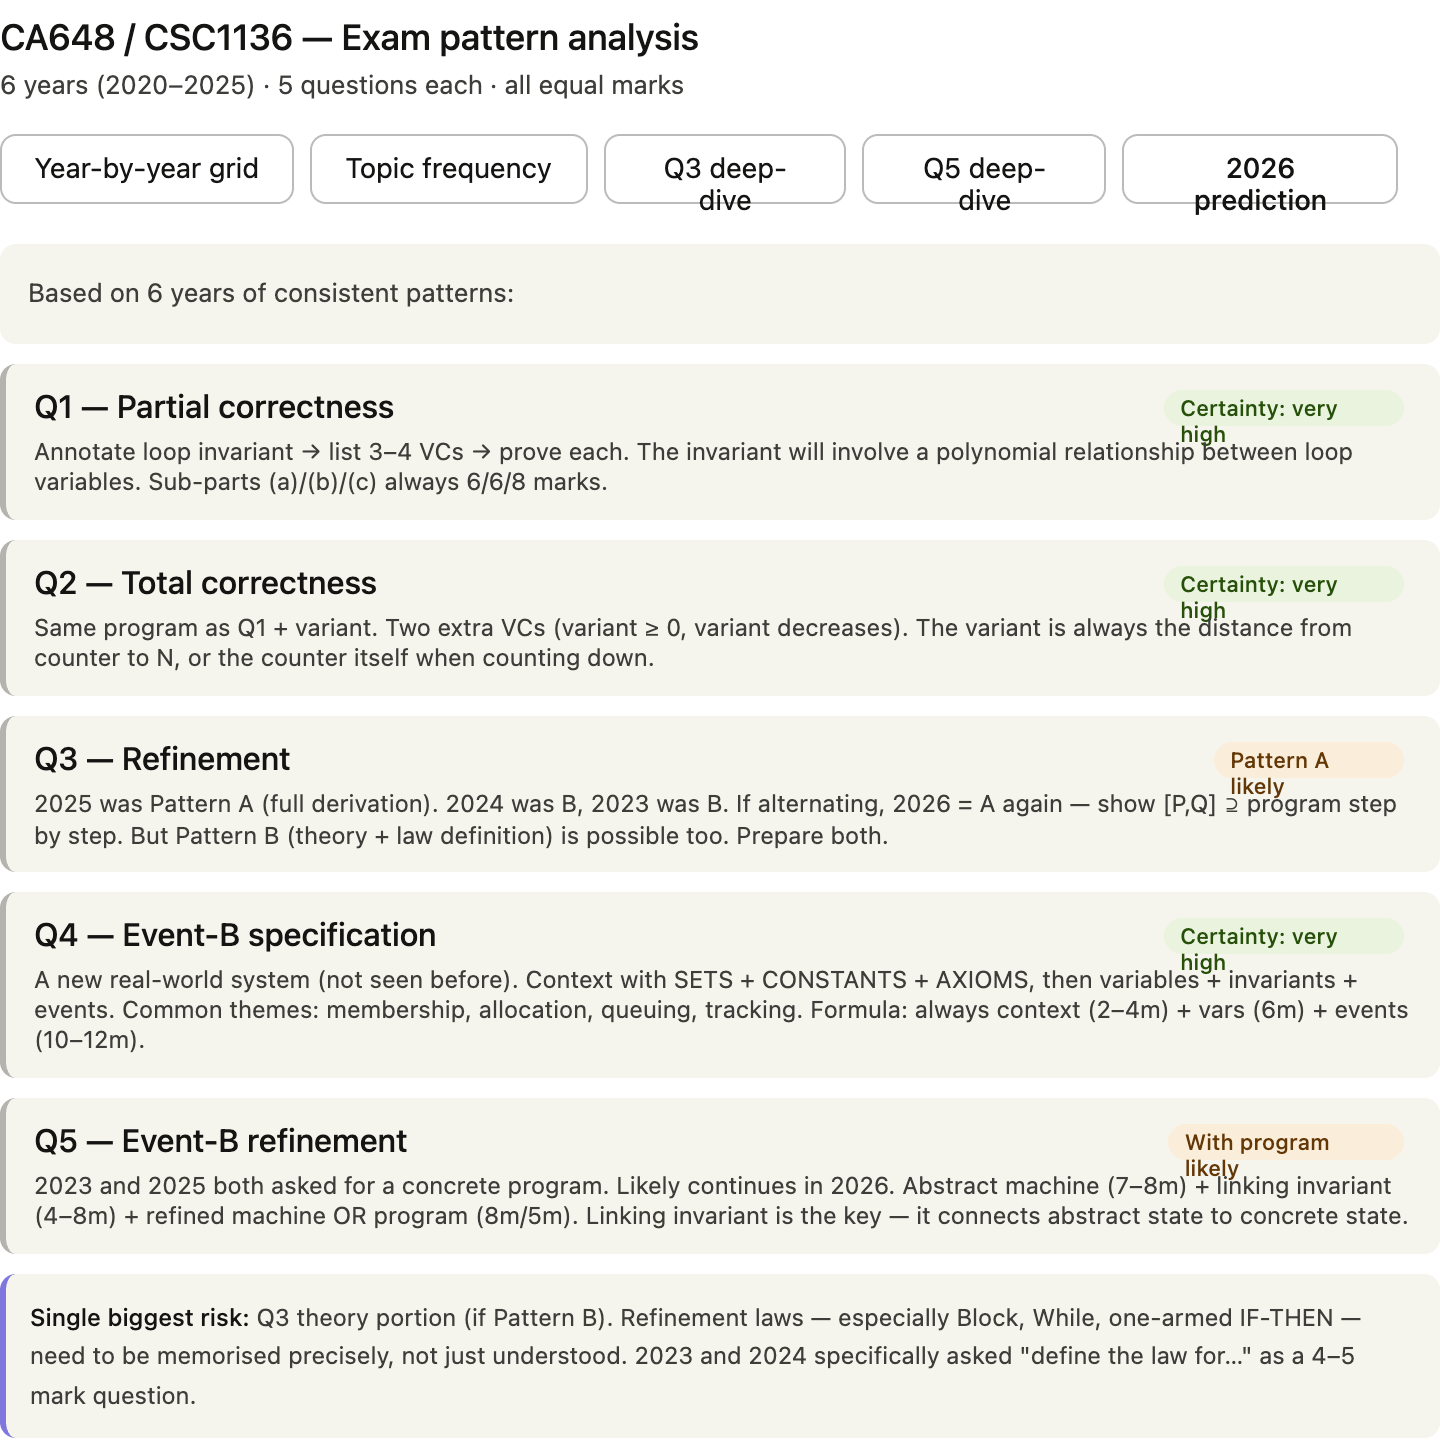
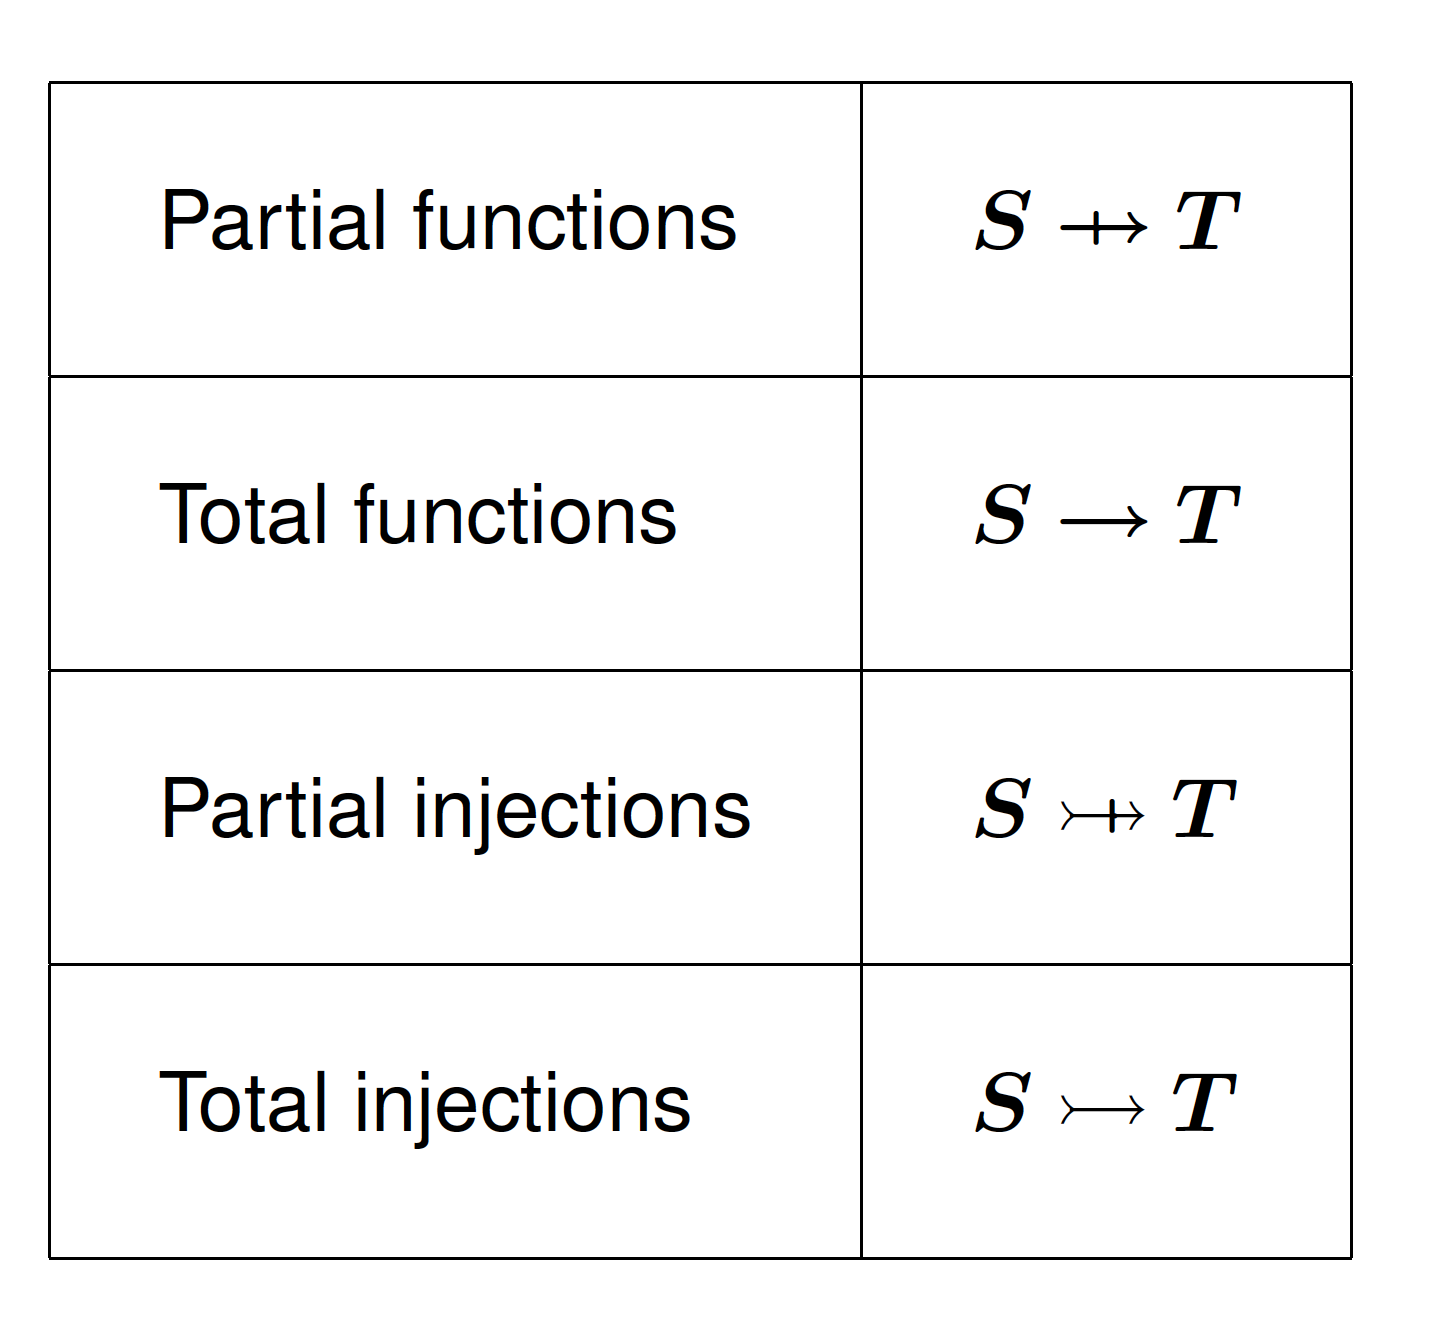
GITBOOK-6: No subject

diff --git a/formal_programming/gitbook/event-b.md b/formal_programming/gitbook/event-b.md
@@ -1,5 +1,19 @@
 # Event B
 
+<figure><img src=".gitbook/assets/image (1).png" alt=""><figcaption></figcaption></figure>
+
+
+
+
+
+<figure><img src=".gitbook/assets/image (2).png" alt=""><figcaption></figcaption></figure>
+
+
+
+
+
+<figure><img src=".gitbook/assets/image (3).png" alt=""><figcaption></figcaption></figure>
+
 Perfect — let me explain every symbol with concrete name examples like that.
 
 ***

diff --git a/formal_programming/gitbook/README.md b/formal_programming/gitbook/README.md
@@ -13,4 +13,4 @@ What do you want to tackle first? I'd suggest starting with Q1/Q2 since they're 
 
 
 
-<figure><img src=".gitbook/assets/image.png" alt=""><figcaption></figcaption></figure>
+<figure><img src=".gitbook/assets/image (4).png" alt=""><figcaption></figcaption></figure>